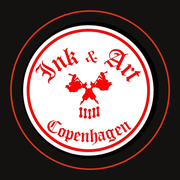
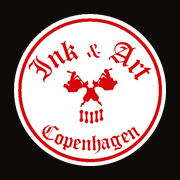
feat(hero): husets officielle segl som hero-mærke (#182)

diff --git a/components/emerge/SceneV05.tsx b/components/emerge/SceneV05.tsx
@@ -83,8 +83,17 @@ export function SceneV05({ lang = "da" }: { lang?: Locale } = {}) {
   <div data-depth="0.53" style={{position:'absolute',left:'26.5%',bottom:'7%',width:'42px',zIndex:'5'}}><img src="/emerge/v05/cup.svg" alt="" style={{width:'100%',display:'block',transform:'rotate(6deg)',filter:'drop-shadow(0 8px 14px rgba(0,0,0,.6))'}}/></div>
   <div data-depth="0.45" style={{position:'absolute',left:'78%',top:'50%',width:'44px',opacity:'.8',zIndex:'4'}}><img src="/emerge/v06/skull-680.webp" alt="" style={{width:'100%',display:'block',transform:'rotate(14deg)'}}/></div>
 
-  <div data-depth="0.6" data-drift="0" style={{position:'relative',zIndex:'18',paddingTop:'30svh',textAlign:'center'}}>
-    <h1 style={{margin:'0',fontFamily:'\'Cormorant Garamond\',serif',fontWeight:'500',fontSize:'clamp(56px,11.5vw,152px)',lineHeight:'.9',letterSpacing:'.05em',textTransform:'uppercase',textShadow:'0 6px 40px rgba(0,0,0,.8)'}}>INK <em style={{fontStyle:'italic',color:'#c9a227'}}>&</em> ART</h1>
+  <div data-depth="0.6" data-drift="0" style={{position:'relative',zIndex:'18',paddingTop:'25svh',textAlign:'center'}}>
+    <h1 style={{margin:'0',display:'flex',justifyContent:'center'}}>
+      {/* Husets officielle segl — samme mærke som på døren i Larsbjørnsstræde.
+          Vektoriseret med potrace fra originalen, så størrelsen er fri:
+          14 kB gzip'et mod rasterens 31 kB, og skarp i enhver opløsning.
+          Overskriften beholder sin semantik via alt-teksten. */}
+      {/* eslint-disable-next-line @next/next/no-img-element */}
+      <img src="/brand/logo-segl.svg" alt="Ink &amp; Art Copenhagen"
+           width={376} height={376}
+           style={{width:'clamp(148px,24vw,300px)',height:'auto',display:'block',filter:'drop-shadow(0 20px 50px rgba(0,0,0,.78))'}} />
+    </h1>
     <p style={{margin:'18px 0 0',fontFamily:'\'Space Mono\',monospace',fontSize:'clamp(13px,1.5vw,17px)',letterSpacing:'.34em',textTransform:'uppercase',color:'rgba(232,224,213,.92)',textShadow:'0 2px 18px rgba(0,0,0,.9)'}}>{c.trade}</p>
     <p style={{margin:'10px 0 0',fontFamily:'\'Space Mono\',monospace',fontSize:'13px',letterSpacing:'.26em',textTransform:'uppercase',color:'rgba(232,224,213,.68)'}}>Larsbjørnsstræde 13 · Pisserenden · København K</p>
     <p style={{margin:'26px 0 0'}}>

diff --git a/app/layout.tsx b/app/layout.tsx
@@ -42,7 +42,16 @@ export const metadata: Metadata = {
     title: "Ink & Art Copenhagen — tatovering & piercing",
     description:
       "Tatoveringer og piercinger i Pisserenden. Walk-in, booking og gavekort. Larsbjørnsstræde 13, København K.",
-    images: ["/og-image.jpg"],
+    /* Nyt filnavn med vilje. WhatsApp, Facebook, LinkedIn og iMessage cacher
+       et OG-billede pr. URL og slipper det ikke af sig selv — et link der
+       allerede er delt ville blive ved med at vise det gamle baglokale-foto,
+       uanset hvad vi lagde på /og-image.jpg. En ny sti har ingen cache at
+       ramme. Filen bag det gamle navn er også skiftet, så alt der peger
+       derhen får det rigtige billede. */
+    images: [
+      { url: "/og-inkandart-2026.jpg", width: 1200, height: 630,
+        alt: "Ink & Art Copenhagen — tatovering & piercing, Larsbjørnsstræde 13" },
+    ],
   },
 };
 
